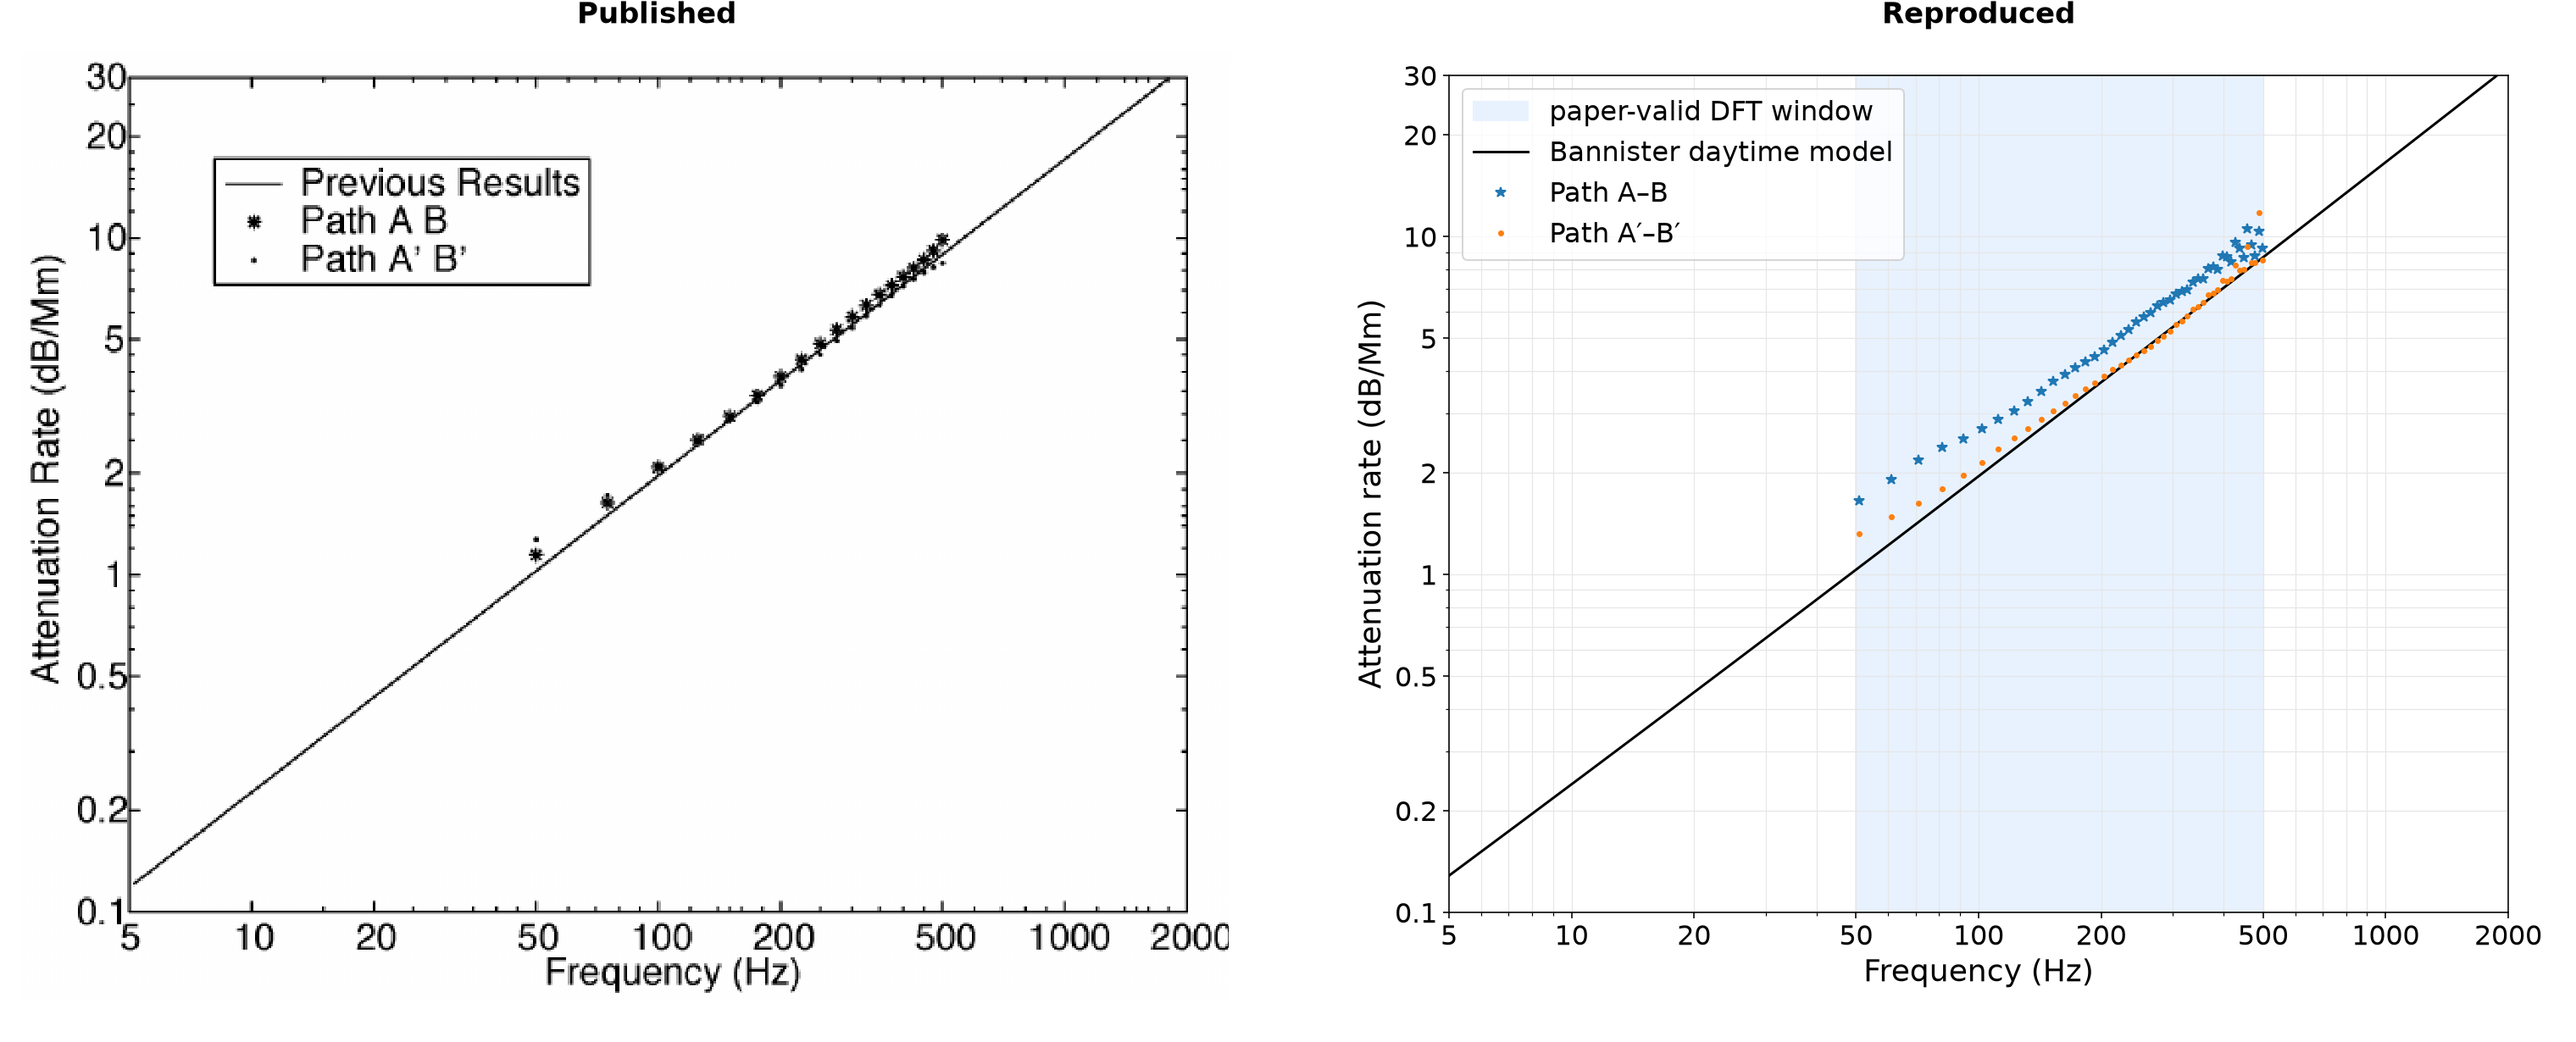
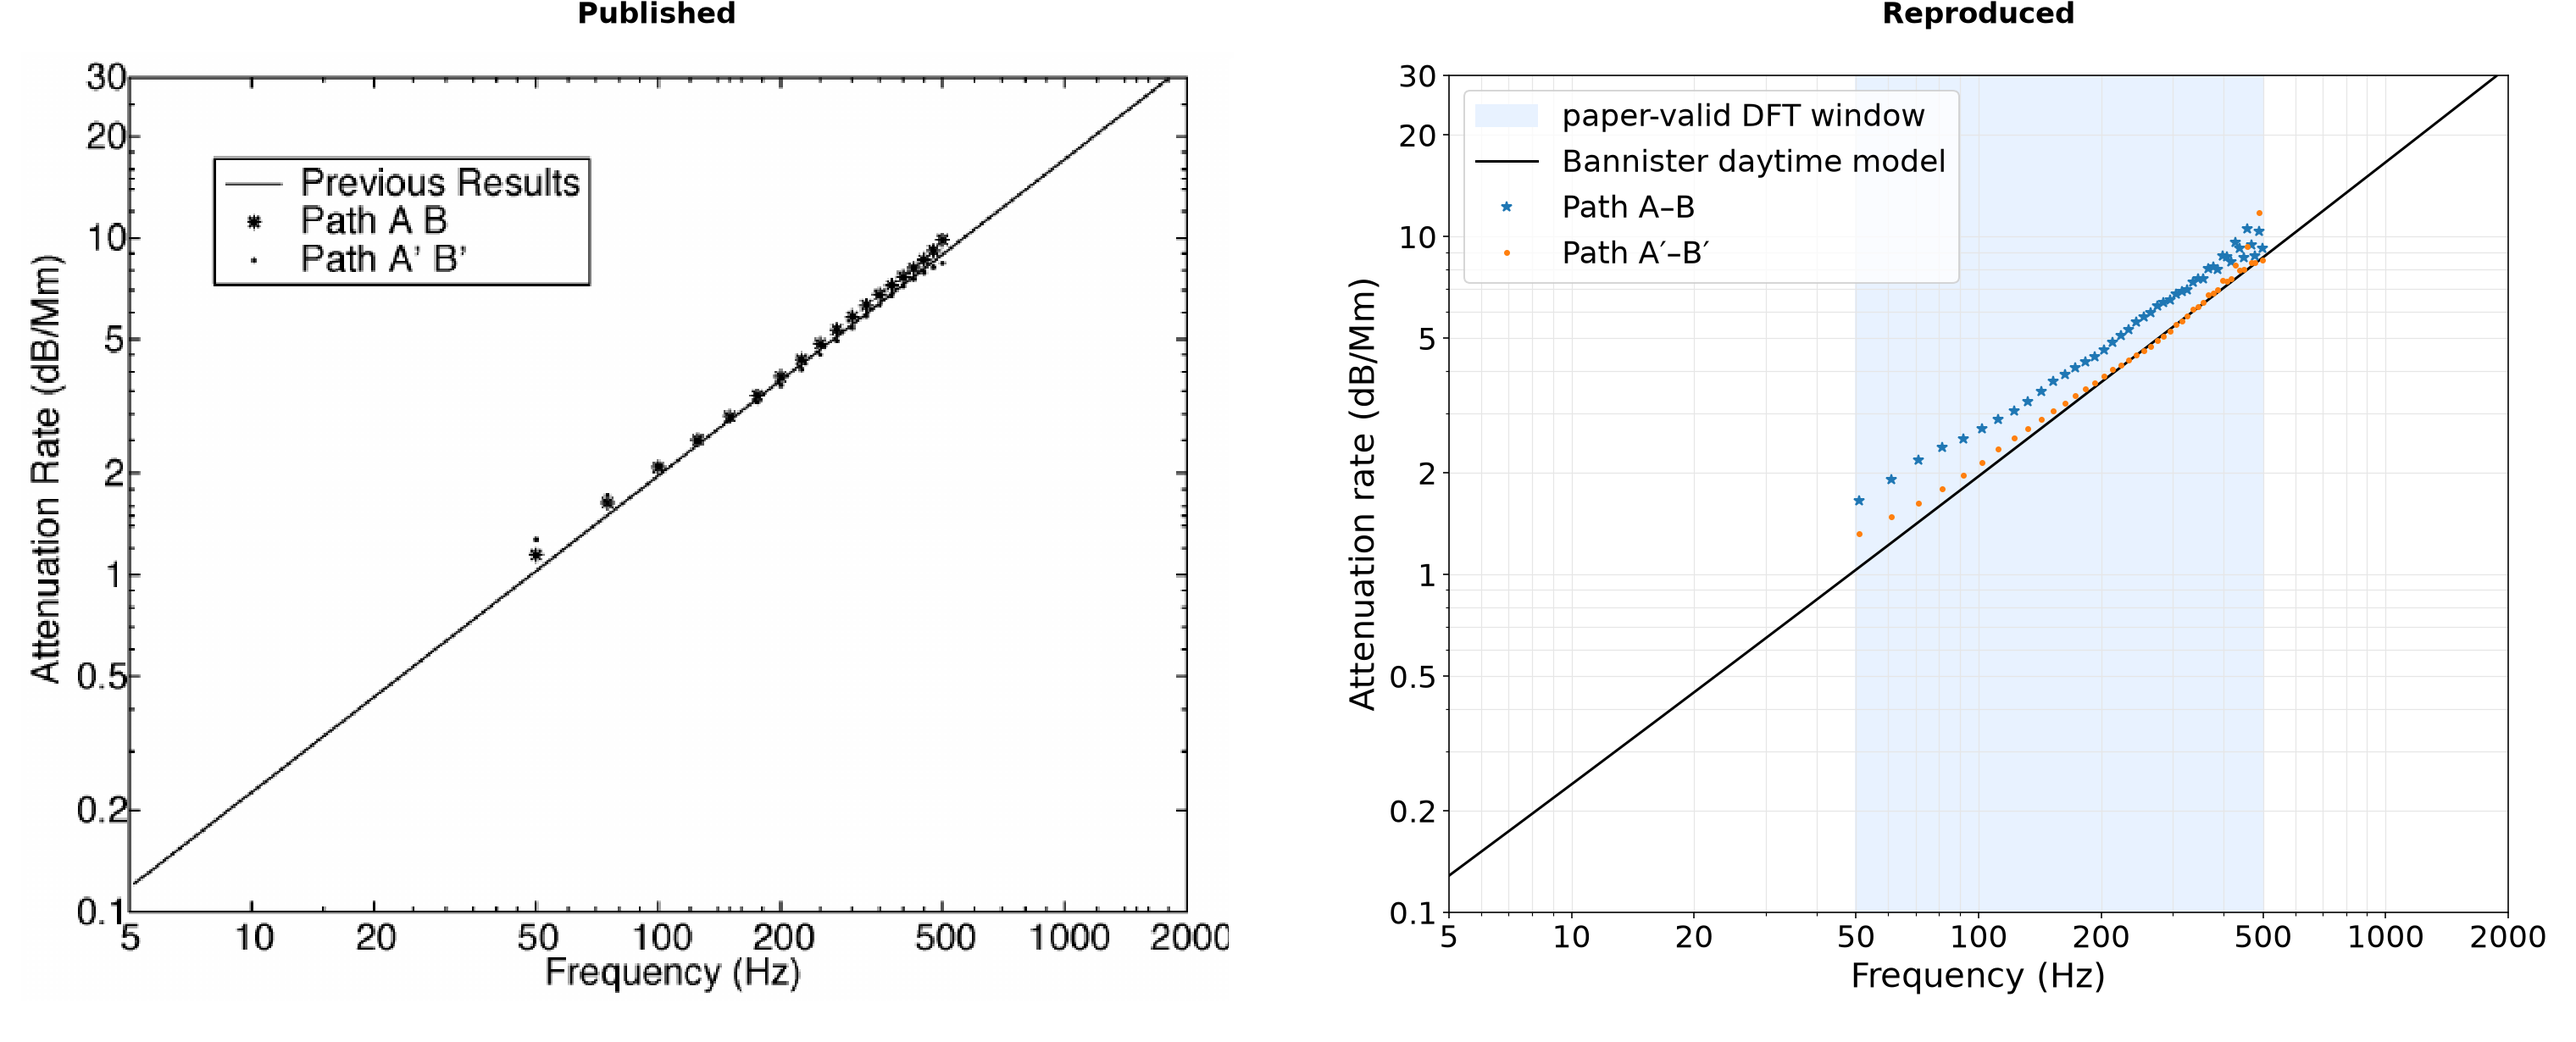
docs(verification): enlarge Figure 8 typography
Increase the reproduced Figure 8 axis labels from 18 to 20 points and its major tick labels and legend from 16 to 18 points. Preserve the paper-matched ranges, comparison data, 3040 by 1230 canvas, and matched 1250 by 988 data frame, and record the typography in the plot guidance.\n\nTests: .venv/bin/pytest -q tests/test_simpson_taflove_2004.py

diff --git a/src/ionosphere_fdtd/simpson_taflove_2004.py b/src/ionosphere_fdtd/simpson_taflove_2004.py
@@ -590,11 +590,15 @@ def render_figure_8(
     ax.set_ylim(0.1, 30.0)
     ax.set_xticks(x_ticks, labels=[f"{value:g}" for value in x_ticks])
     ax.set_yticks(y_ticks, labels=[f"{value:g}" for value in y_ticks])
-    ax.set_xlabel("Frequency (Hz)")
-    ax.set_ylabel("Attenuation rate (dB/Mm)")
-    ax.set_title("Simpson & Taflove (2004), Fig. 8 verification run")
+    ax.set_xlabel("Frequency (Hz)", fontsize=20)
+    ax.set_ylabel("Attenuation rate (dB/Mm)", fontsize=20)
+    ax.set_title(
+        "Simpson & Taflove (2004), Fig. 8 verification run",
+        fontsize=20,
+    )
+    ax.tick_params(axis="both", which="major", labelsize=18)
     ax.grid(True, which="both", color="0.9", linewidth=0.6)
-    ax.legend()
+    ax.legend(fontsize=18)
     figure.savefig(output_path, dpi=180, facecolor="white")
     plt.close(figure)
     return output_path

diff --git a/AGENTS.md b/AGENTS.md
@@ -120,4 +120,5 @@ Current geometry references:
   `2880 x 2400` pixel canvas.
 - Figure 8 uses matched `1250 x 988` pixel data frames on a `3040 x 1230`
   pixel canvas, with additional inter-column spacing for the enlarged
-  reproduced y-axis label.
+  reproduced y-axis label. Its reproduced panel uses 20-point axis labels and
+  18-point major tick labels and legend text.
